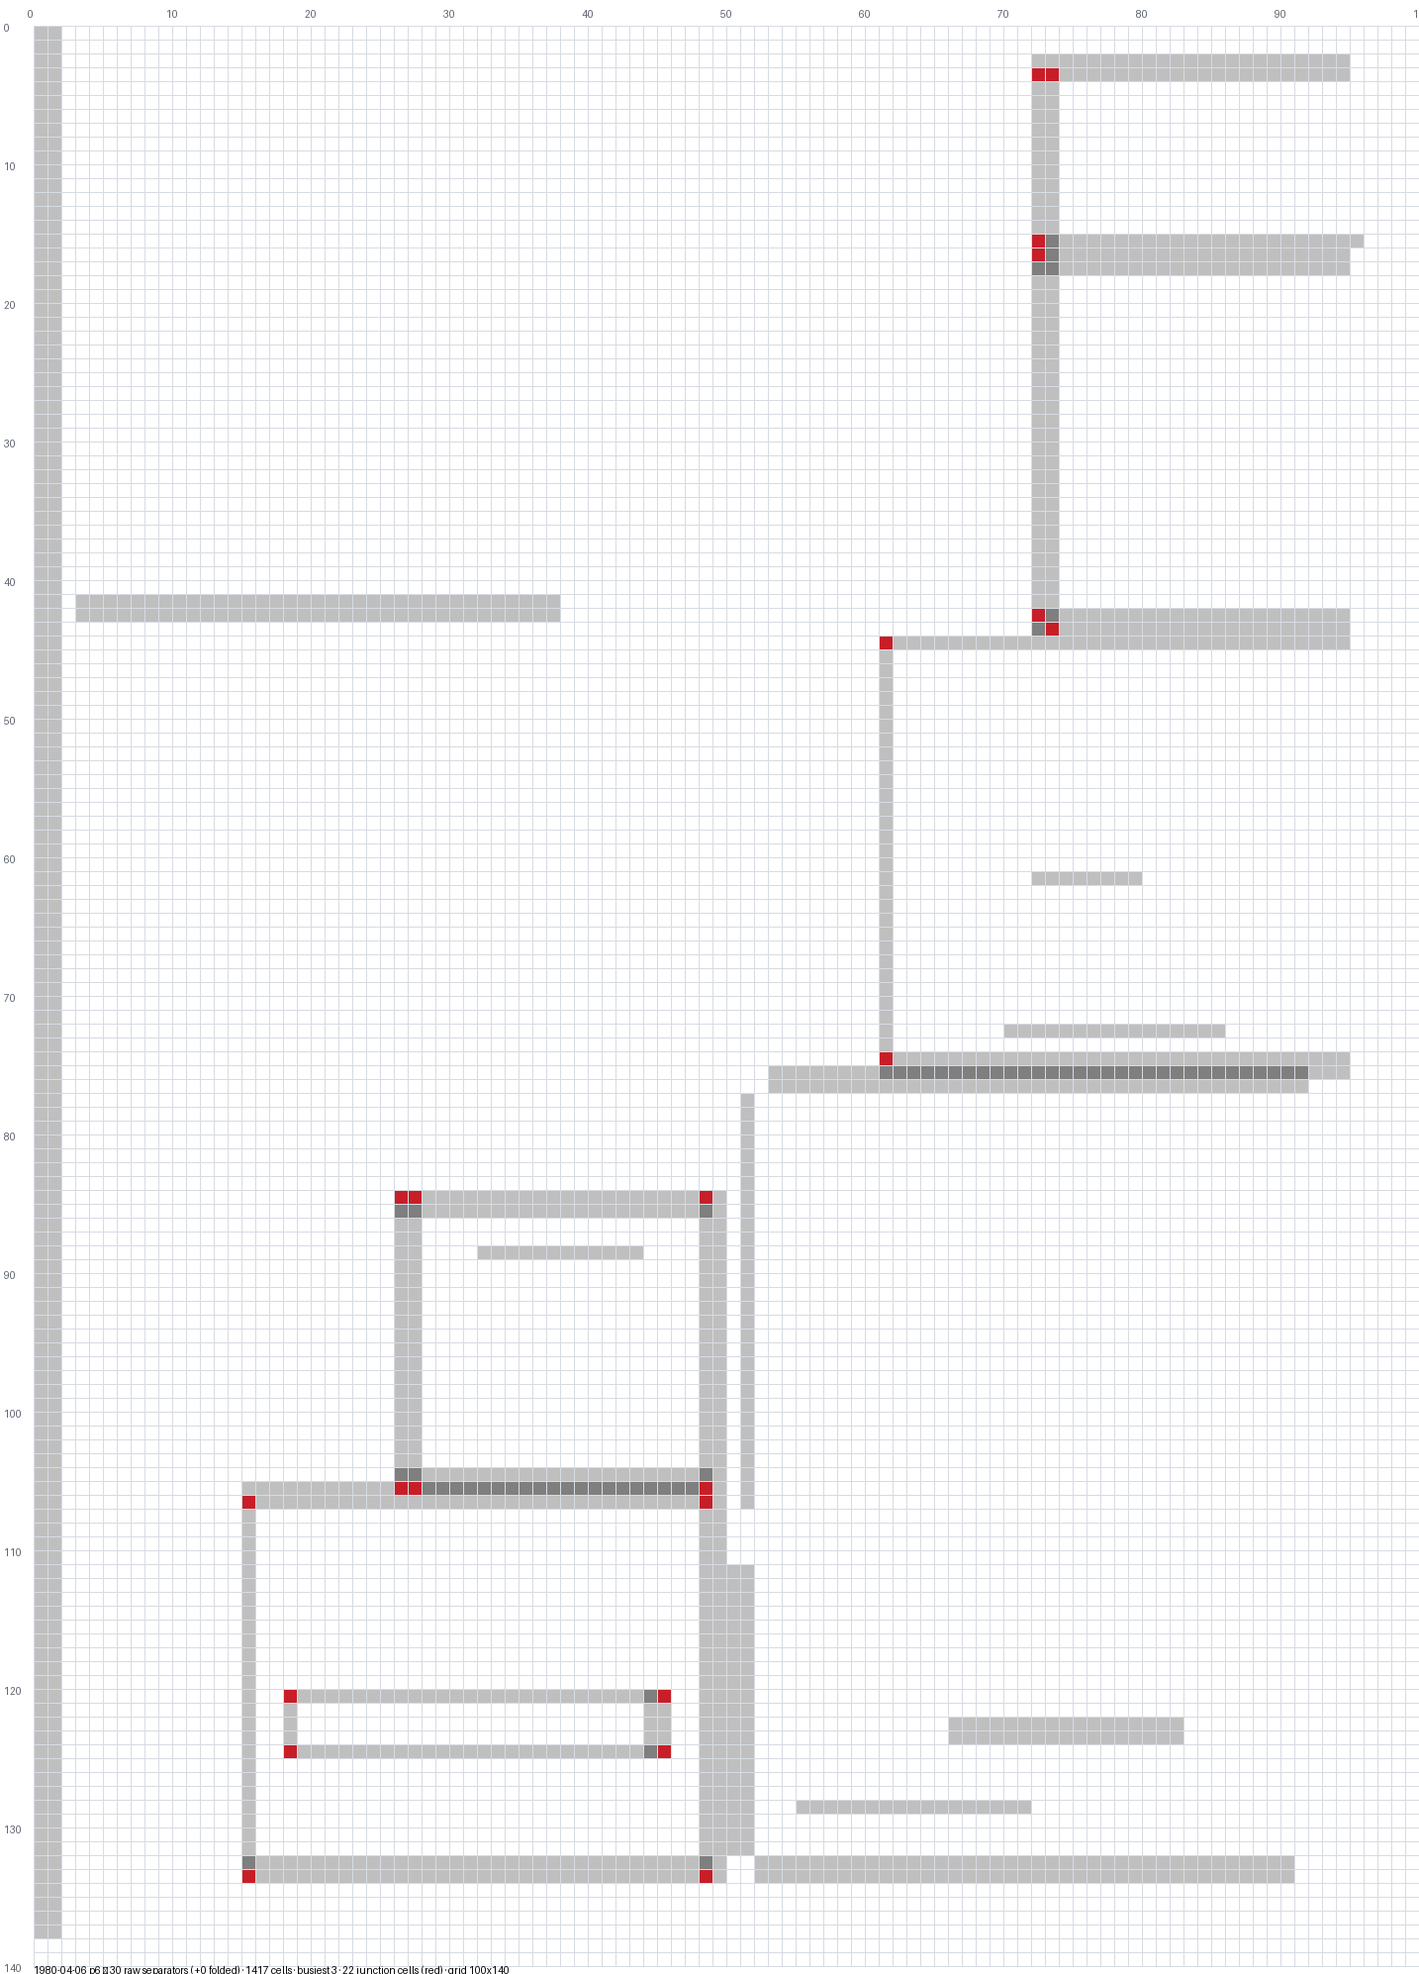
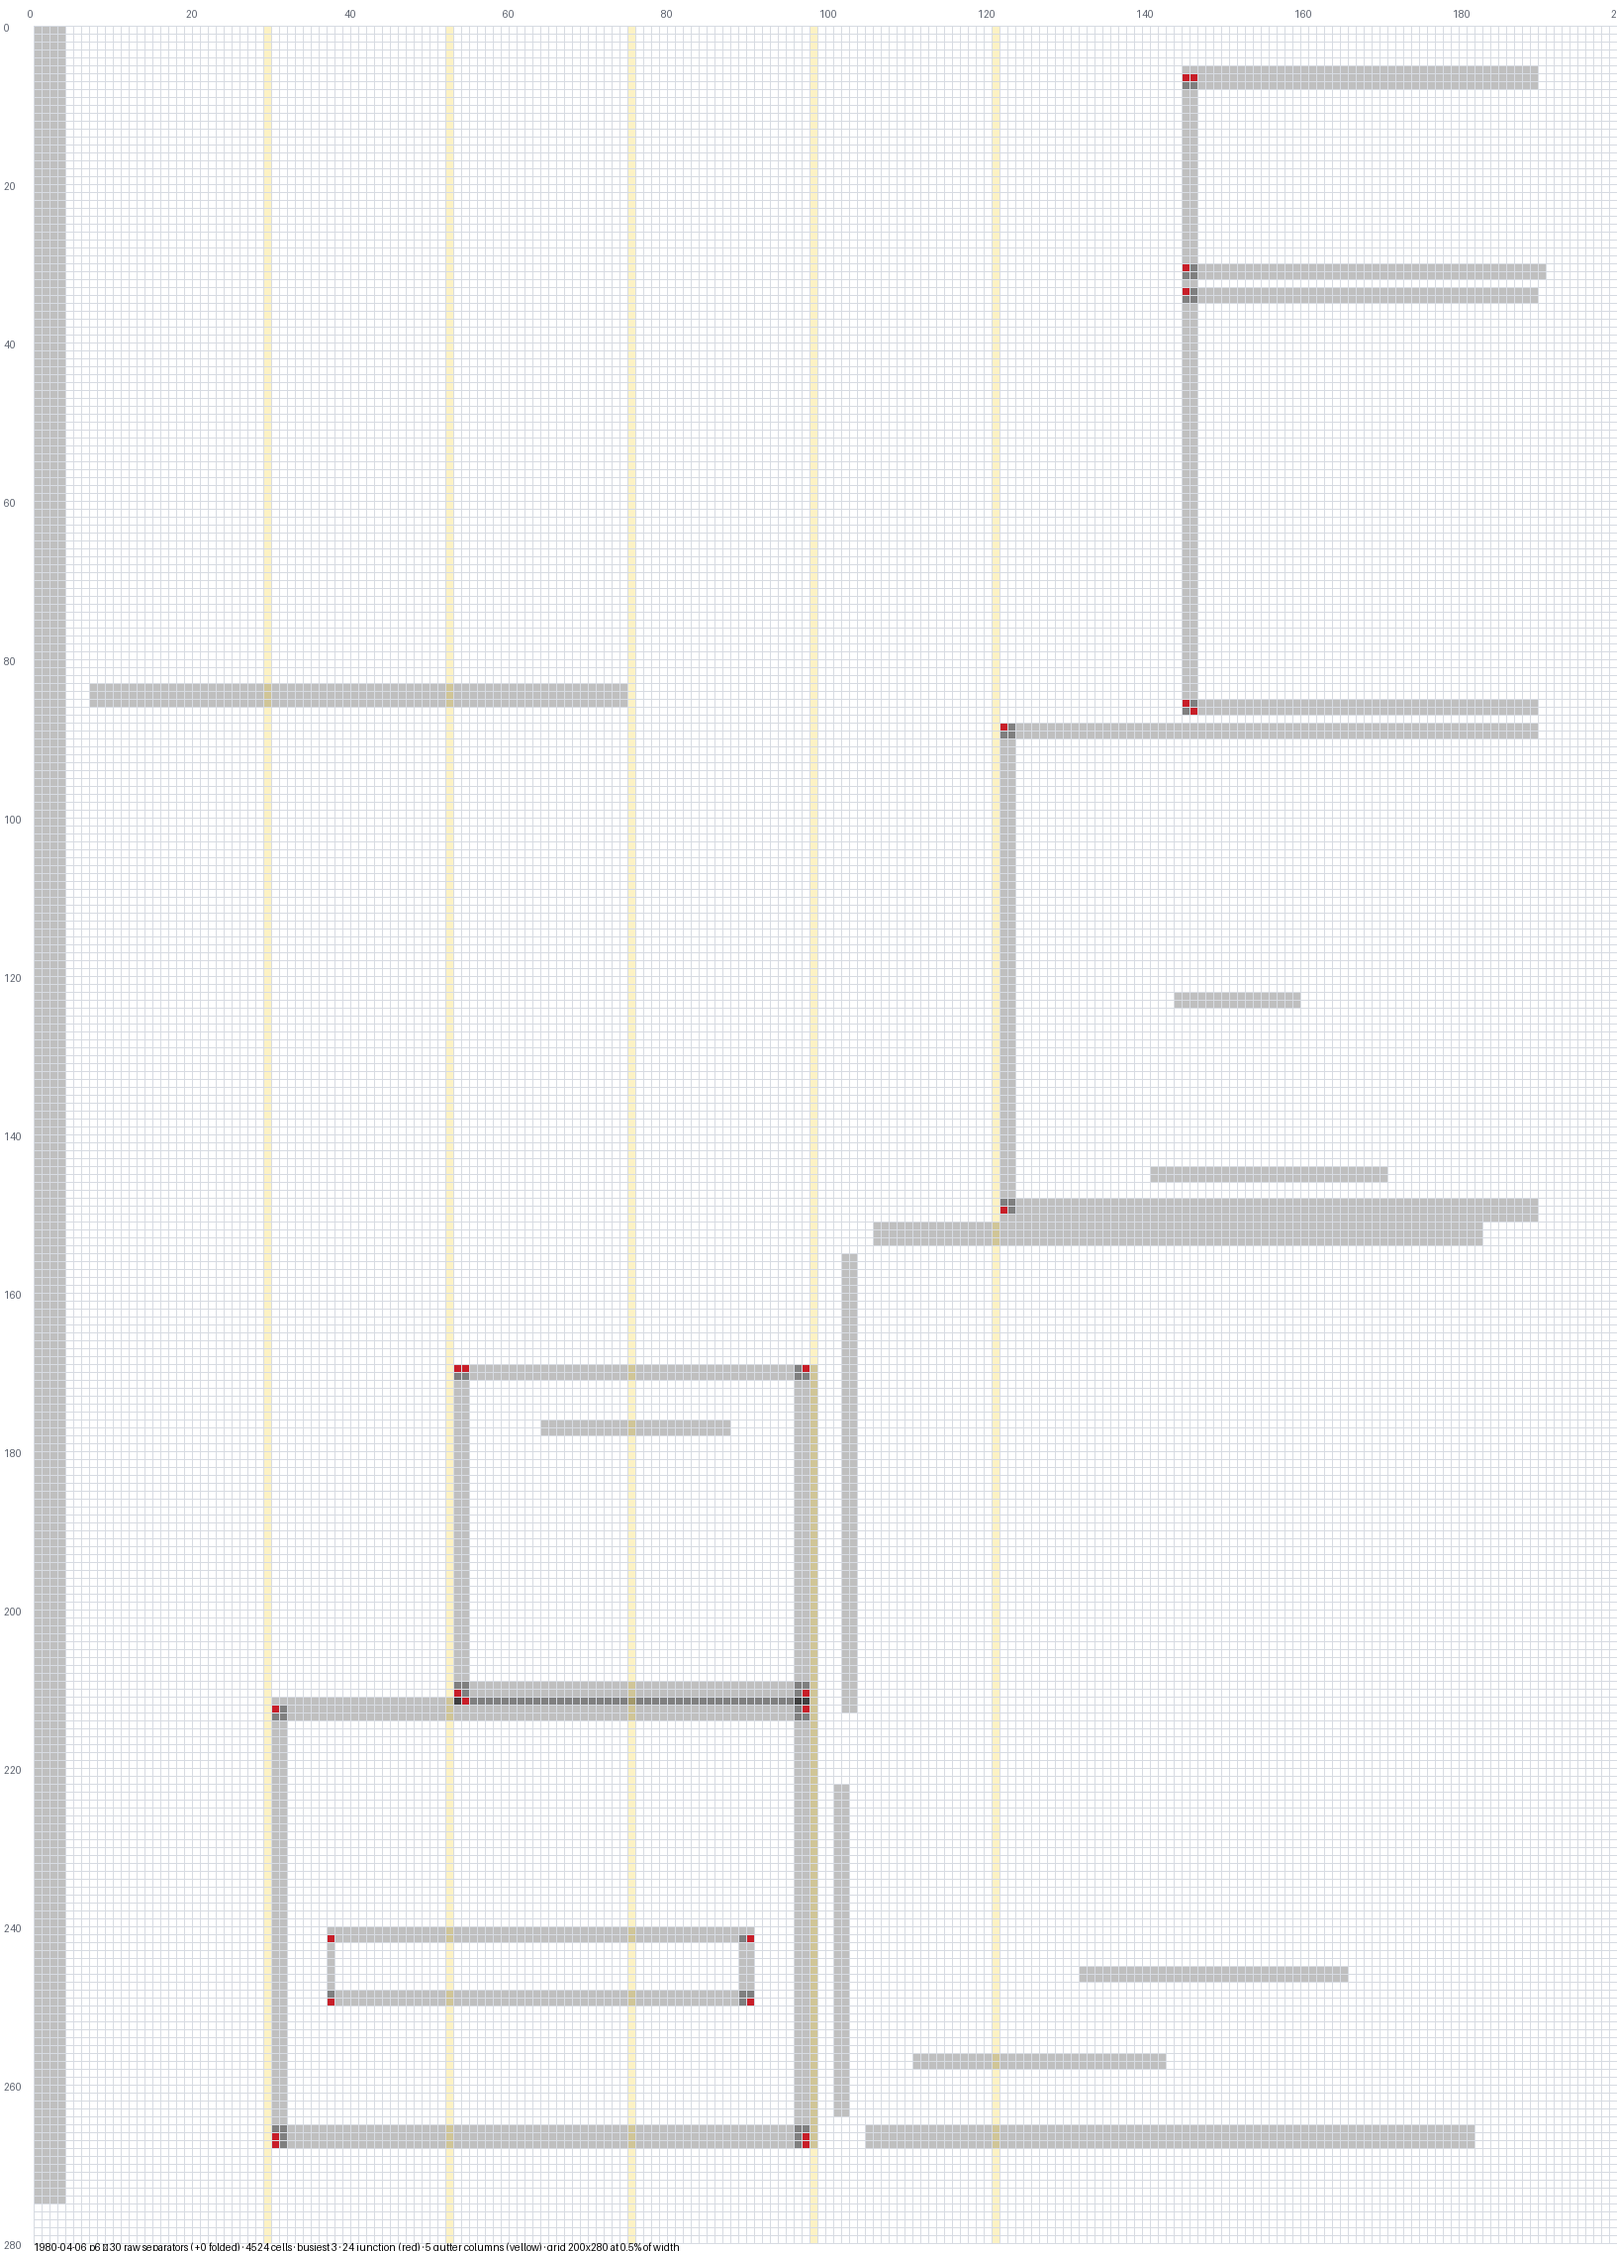
scaled/grid: 0.5% cells, and overlay the column gutter CENTRE lines
Resolution doubled to 0.5% of page width -- 200 x 281 on p13 -- so two
rules sitting in the same gutter can be told apart.

Gutter centres from page_columns are tinted yellow. The CENTRE line, not
the column edges: the question the view exists to answer is whether the
rules separate cleanly around the gutter, and drawing the edges would
pre-empt that. The tint is BLENDED rather than painted underneath, so a
rule sitting on a gutter centre stays visible -- seeing that is the point.

Measured on p13, and it is a real signal: where two verticals compete
inside one gutter, the box's OWN side sits closer to the centre than the
neighbour's does.

    gutter centres: 16.2 27.5 38.8 50.1 61.4 72.7 84.0

    vertical  nearest gutter  distance
      39.22        38.80        0.42   <- JOHNSON's own left side
      37.97        38.80        0.83      the calendar's right side
      61.11        61.40        0.29   <- JOHNSON's own right side
      62.11        61.40        0.71      the next box's left side

That is the same discrimination the tight-fit slack heuristic makes, but
derived INDEPENDENTLY -- from the column grid rather than from the rules
themselves -- so it could serve as a cross-check rather than another
tie-break in the same greedy chain.

Sample is two pairs on one page. Promising, not established.

Note the outer verticals (4.78, 94.42, 95.92) sit 10-12% from any gutter
centre, correctly: they are at the content margins, which are not gutters.
[…]

Changed region(s): [[0.0, 0.0, 1.0, 1.0], [0.9205, 0.7151, 1.0, 0.8706]]

diff --git a/transcribe/scaled/experiments/separator_grid.py b/transcribe/scaled/experiments/separator_grid.py
@@ -36,12 +36,14 @@ from .. import detect_boxes as _boxes
 
 OUT_DIR = os.path.join(_sup.REPO_ROOT, "preview", "scaled", "grids")
 
-CELL_PCT = 1.0        # cell side, as a percentage of PAGE WIDTH
-CELL_PX = 14          # on-screen size of one cell
+CELL_PCT = 0.5        # cell side, as a percentage of PAGE WIDTH
+CELL_PX = 8           # on-screen size of one cell
 STEP_DARK = 0.25      # each separator in a cell adds this much darkness
 GRID_LINE = (215, 219, 226)
 LABEL = (90, 96, 108)
 JUNCTION = (200, 30, 40)   # a separator END meeting another separator
+GUTTER = (250, 214, 60)    # column gutter CENTRE line, blended in
+GUTTER_MIX = 0.30          # how strongly the gutter tint shows through
 
 # Padding around the content area. Rules that RUN ALONG the content edge
 # (a box's outer border, the rule under a masthead) must survive, so the
@@ -105,6 +107,21 @@ def _fold_contained(regions: list[dict]) -> tuple[list[dict], list[dict]]:
                 break
         (folded if inside else keep).append(a)
     return keep, folded
+
+
+def _gutter_centres(conn, page_id: str) -> list[float]:
+    """x of the CENTRE of each gutter between adjacent columns.
+
+    The centre line, not the column edges: the question this view is meant
+    to answer is whether the rules separate cleanly around the gutter, and
+    a pair of edge lines would pre-empt that by drawing where the answer is
+    supposed to be.
+    """
+    cols = [dict(r) for r in conn.execute(
+        "SELECT left_pct, right_pct FROM page_columns WHERE page_id=? "
+        "AND method='grid' ORDER BY col_idx", (page_id,))]
+    return [(cols[i]["right_pct"] + cols[i + 1]["left_pct"]) / 2
+            for i in range(len(cols) - 1)]
 
 
 def _ends(r: dict) -> list[tuple]:
@@ -173,10 +190,22 @@ def build(conn, page_id: str, clean: bool = False):
             others = occupied.get((cy, cx), set()) - {i}
             if others:
                 junction[cy][cx] = True
-    return counts, junction, n_cols, n_rows, len(regions), len(swallowed)
+    gutter = [False] * n_cols
+    for gx in _gutter_centres(conn, page_id):
+        cx = int(gx / CELL_PCT)
+        if 0 <= cx < n_cols:
+            gutter[cx] = True
+
+    return (counts, junction, gutter, n_cols, n_rows,
+            len(regions), len(swallowed))
 
 
-def render(counts, junction, n_cols, n_rows, title: str, out_path: str) -> str:
+def _blend(base: tuple, tint: tuple, amount: float) -> tuple:
+    return tuple(int(b * (1 - amount) + t * amount) for b, t in zip(base, tint))
+
+
+def render(counts, junction, gutter, n_cols, n_rows,
+           title: str, out_path: str) -> str:
     pad_l, pad_t, pad_b = 34, 26, 8
     W = pad_l + n_cols * CELL_PX
     H = pad_t + n_rows * CELL_PX + pad_b
@@ -188,18 +217,26 @@ def render(counts, junction, n_cols, n_rows, title: str, out_path: str) -> str:
             n = counts[y][x]
             x0, y0 = pad_l + x * CELL_PX, pad_t + y * CELL_PX
             if junction[y][x]:
-                d.rectangle([x0, y0, x0 + CELL_PX, y0 + CELL_PX],
-                            fill=JUNCTION)
+                fill = JUNCTION
             elif n:
                 v = int(255 * max(0.0, 1.0 - STEP_DARK * n))
-                d.rectangle([x0, y0, x0 + CELL_PX, y0 + CELL_PX],
-                            fill=(v, v, v))
+                fill = (v, v, v)
+            else:
+                fill = None
+            # The gutter tint is BLENDED rather than painted under, so a
+            # rule sitting on the gutter centre stays visible. Seeing that
+            # is the whole point of the overlay.
+            if gutter[x]:
+                fill = _blend(fill or (255, 255, 255), GUTTER, GUTTER_MIX)
+            if fill:
+                d.rectangle([x0, y0, x0 + CELL_PX, y0 + CELL_PX], fill=fill)
             d.rectangle([x0, y0, x0 + CELL_PX, y0 + CELL_PX],
                         outline=GRID_LINE)
 
-    for x in range(0, n_cols + 1, 10):
+    step = 20 if n_cols > 120 else 10
+    for x in range(0, n_cols + 1, step):
         d.text((pad_l + x * CELL_PX - 6, 8), str(x), fill=LABEL)
-    for y in range(0, n_rows + 1, 10):
+    for y in range(0, n_rows + 1, step):
         d.text((4, pad_t + y * CELL_PX - 4), str(y), fill=LABEL)
 
     d.text((pad_l, H - pad_b - 2), title, fill=(0, 0, 0))
@@ -218,18 +255,19 @@ def _cmd(args):
         if not row:
             print("no such page")
             return
-        counts, junc, nc, nr, n, folded = build(conn, row["id"], args.clean)
+        counts, junc, gut, nc, nr, n, folded = build(conn, row["id"], args.clean)
         busiest = max(max(r) for r in counts)
         cells = sum(1 for r in counts for v in r if v)
         njunc = sum(1 for r in junc for v in r if v)
         kind = "cleaned" if args.clean else "raw"
         title = (f"{args.date} p{args.page} — {n} {kind} separators "
                  f"(+{folded} folded) · {cells} cells · busiest {busiest} "
-                 f"· {njunc} junction cells (red) · grid {nc}x{nr}")
+                 f"· {njunc} junction (red) · {sum(gut)} gutter columns "
+                 f"(yellow) · grid {nc}x{nr} at {CELL_PCT}% of width")
         suffix = "_clean" if args.clean else ""
         out = os.path.join(OUT_DIR, args.date,
                            f"p{args.page}_sepgrid{suffix}.png")
-        print(" ", render(counts, junc, nc, nr, title, out))
+        print(" ", render(counts, junc, gut, nc, nr, title, out))
         print(f"  {n} regions kept, {folded} folded as contained, "
               f"{cells} cells touched, busiest {busiest}, {njunc} junctions")
     finally:
